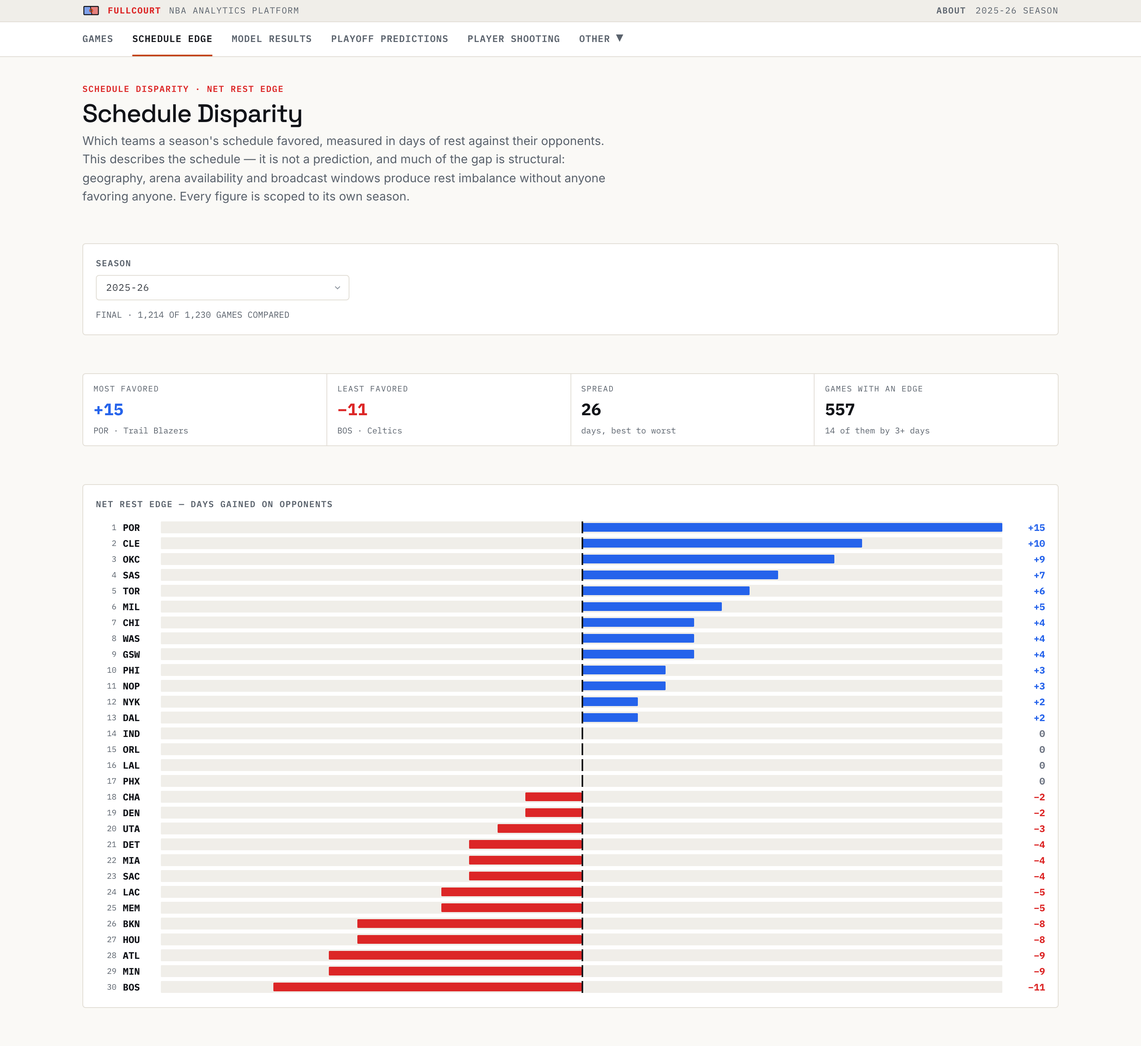
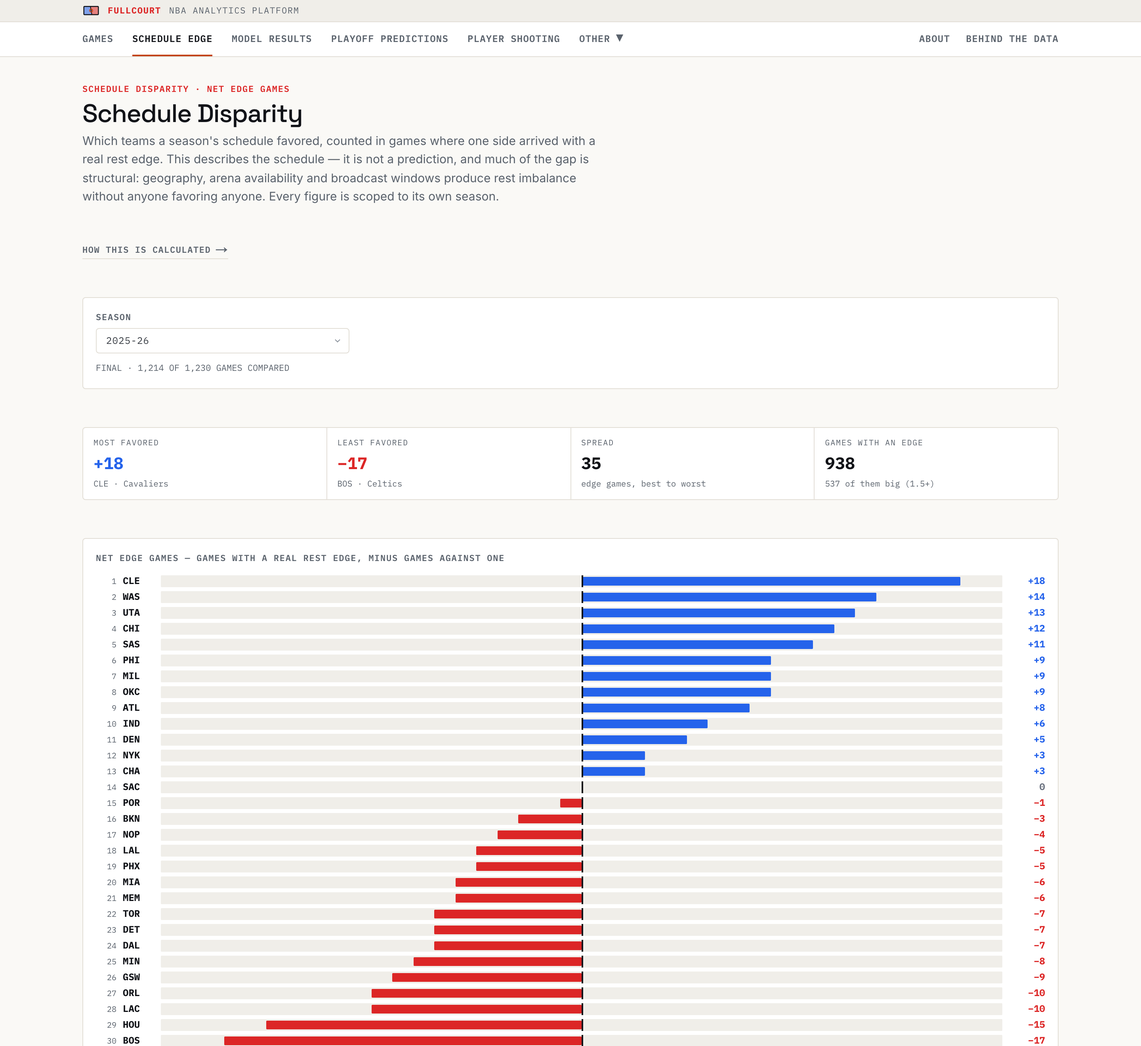
docs: reconcile every tracked document with the shipped code
A full audit of the nineteen tracked markdown files against HEAD. The repository was
asserting things that stopped being true, in several places for months.

The worst of it, roughly in order of how wrong it was:

- AGENTS.md called the app "dark-only" with page background #0A0B0D. It is light-only:
  --term-bg is #FAF9F6 and globals.css sets color-scheme: light. It also listed /upcoming
  as a live route (folded into / in July), the home page as "Today's Games", a nav label
  "PICKS" that no longer exists, migrations "0001-0009" against eleven on disk, and a flat
  1.38 back-to-back multiplier that has been a turnaround-dependent clamp since 2026-07-30.
- ARCHITECTURE.md's data-flow diagram and source table both named BoxScoreSummaryV2 and
  nba_ot_periods.py as the overtime source -- the path that never worked from outside the US
  and left the overtime term dormant across all 49,353 games.
- ROADMAP.md named the five tabs with SHOT VALUE as the fifth; it is PLAYER SHOOTING, and
  Shot Value moved behind OTHER on 2026-07-27. No mention of the fatigue overhaul, the
  Referee Effect module, or the reference section.
- README screenshot alt text quoted 54.7% and 38,985 games, both pre-recompute.
- TESTING_AND_CICD claimed 31 tests across 8 specs; it is 46 across 10, confirmed with
  playwright --list rather than counted by hand.
- FRONTEND, GLOSSARY and SEASON_ROLLOVER carried the old /about entry point, the removed
[…]

diff --git a/src/components/about-content.tsx b/src/components/about-content.tsx
@@ -257,12 +257,15 @@ export function AboutContent({ stats }: { stats: AboutStats }) {
             Rest is a stat
           </h1>
           {/* Mechanism-led, to complete the headline: if the h1 asserts that rest is a stat,
-              the line under it should name what the stat is made of.
+              the line under it should name what the stat is made of. "Days off" rather than
+              "rest": the headline already uses "rest" for the whole idea, so repeating it here
+              for one specific input would have the pair saying rest is a stat, and also one of
+              three ingredients in that stat.
               The start season is derived rather than typed, and it is a start date rather
               than a count on purpose — the evidence section already carries "40 seasons", so
               repeating the count here would spend the same beat twice. */}
           <p className="fc-hero-in mx-auto mt-8 max-w-xl" style={{ color: DIM, fontSize: "1.05rem", lineHeight: 1.65 }}>
-            Travel, rest and schedule density — scored for every team in every game since{" "}
+            Travel, days off and schedule density — scored for every team in every game since{" "}
             {NBA_SEASONS[0]}.
           </p>
         </div>

diff --git a/src/app/behind-the-data/playoff-predictions/page.tsx b/src/app/behind-the-data/playoff-predictions/page.tsx
@@ -40,7 +40,7 @@ const FEATURES = [
   {
     name: "is_best_of_7",
     what: "Series format flag.",
-    why: "First rounds were best-of-5 through the 2002 season; a shorter series is more random.",
+    why: "First rounds were best-of-5 through 2001-02; a shorter series is more random.",
   },
 ] as const;
 

diff --git a/docs/FRONTEND.md b/docs/FRONTEND.md
@@ -194,8 +194,18 @@ work. It explains what the product measures rather than serving data, which is w
 so `img-src` in `next.config.ts` did not have to widen; GSAP is imported inside `useEffect`
 so it stays out of the shared bundle.
 
-Reachable from an `ABOUT` link in the **top status bar** and from `WHAT THIS MEASURES` in the
-footer — not from the main nav, whose five-link count is asserted in `e2e/navigation.spec.ts`.
+Reachable from an `ABOUT` link in the nav row's **`Reference` landmark** and from
+`WHAT THIS MEASURES` in the footer — not from the main nav, whose five-link count is asserted
+in `e2e/navigation.spec.ts`. It sat in the top status bar until 2026-07-30, which proved too
+quiet to be found; the reference links are now the same size and weight as a tab, and the gap
+between the two groups is what says "not one of the five".
+
+Rebuilt 2026-07-30 into **seven full-viewport sections** (`calc(100svh - 72px)` each, the
+subtraction being the sticky chrome — without it every section overran the fold by the header's
+height). Order: the claim, the thesis, the evidence, the five surfaces, what the score is made
+of, the standard, the way in. The hero carries no buttons: they competed with the single line
+the page opens on. Evidence figures come from `getHistoricalBacktest` via the server page and
+are revalidated daily, because all three were hardcoded and all three had gone stale.
 Headings use `font-bold` (700), not extrabold: `layout.tsx` loads Space Grotesk at
 400/500/600/700, so an 800 request resolved to the 700 face anyway.
 
@@ -211,7 +221,7 @@ Two things on this page are easy to get wrong twice:
   draws, and the copy. Index, route and glyph are `aria-hidden`, so the link's accessible name
   stays `"<label> <copy>"` — which is what `e2e/about.spec.ts` anchors on.
 
-Display statements on this page take **no terminal period** (`Rest is a stat`, `Six surfaces`,
+Display statements on this page take **no terminal period** (`Rest is a stat`, `Five surfaces`,
 `How a number earns its place`). Body copy and the scrubbing thesis keep normal punctuation —
 they are prose, not statements.
 
@@ -224,22 +234,60 @@ recovery links to Games and Model Results without adding a client bundle or data
 
 ## Components
 
+### `/behind-the-data/*` — the reference section (7 routes)
+
+`/behind-the-data` plus one route per model (`rest-advantage`, `schedule-edge`,
+`playoff-predictions`, `player-shooting`, `shot-value`) and a shared `data-and-limits`. Real
+routes rather than client-side tabs, so each method is linkable, crawlable, and deep-linkable
+from the page it explains. `BehindTheDataShell` supplies the header and the section sub-nav;
+`behind-the-data-parts.tsx` supplies the shared prose primitives so six pages cannot drift into
+six typographic treatments of the same content.
+
+Constants are **imported from source** (`FATIGUE_CONSTANTS`, `BIG_EDGE_FATIGUE_THRESHOLD`,
+`REST_DAYS_CAP`) rather than retyped, so the prose cannot drift from the code. Measured figures
+that cannot be computed per page view carry the date they were measured.
+
+`MethodLink` (`src/components/method-link.tsx`) renders the `HOW THIS IS CALCULATED` link on
+each product page, resolved through `methodologyHrefFor()` — it returns null for surfaces with
+no documented section, so adding one to `BEHIND_THE_DATA_SECTIONS` is all it takes.
+
+> **Prose spacing has a rendered test.** A JSX text node that wraps to the next line silently
+> loses its leading space, producing "30days" and "backtest.The". It is invisible in review
+> because the source looks correct, so `e2e/behind-the-data.spec.ts` sweeps the rendered `<p>`
+> and `<li>` text of every reference page for run-together words. Formula blocks are excluded —
+> camelCase inside them is code.
+
+### `/referees` — placeholder
+
+Reduced to a "Coming soon" page on 2026-07-30. The whistle numbers came back inside noise, and
+a table of muted cells invites readers to find names in it anyway. `src/data/referee-whistle.json`
+and its test remain, so the page can return without a re-ingest.
+
 ### `nav-bar.tsx` — two-layer header (sticky, `z-50`)
 
 1. **Top status bar** (28px, `var(--term-surface-2)`, bottom border `var(--term-border)`):
    a `<CourtMark size={22}>` brand logo + `FULLCOURT` (`var(--term-red)`) + `NBA ANALYTICS
-   PLATFORM` (muted), and on the right `currentDisplaySeason() + " SEASON"` (dynamic — from
-   `src/lib/nba-season.ts`, not a hardcoded label), preceded by an `ABOUT` link to `/about`.
-   That link lives here, not in the main nav, because `/about` explains the product rather
-   than being a sixth surface — and because the nav's five-link count is asserted in e2e.
+   PLATFORM` (muted), wrapped in a link to `/` — the wordmark was inert until 2026-07-30, the
+   one piece of chrome people reflexively click. Home is `GAMES`, not `/about`: a logo landing
+   on an explainer breaks the "take me back to the product" contract.
+   The right side is now empty. It previously held `currentDisplaySeason() + " SEASON"`, removed
+   2026-07-30 — it was not interactive, and on a site covering forty seasons it implied the whole
+   product was scoped to one — and an `ABOUT` link, which moved to the nav row.
    There is **no LIVE dot** — it was gated by
    a `HAS_LIVE_GAMES` constant hardcoded to `false`, so it never rendered in any state; the
    dead branch was removed. Per-game LIVE status is shown by `MatchupCard` instead.
-2. **Main nav** (44px, `var(--term-surface)`, bottom border `var(--term-border)`): links from
-   `PRIMARY_NAV_ITEMS` (`src/lib/primary-navigation.ts`) — `GAMES → /`, `SCHEDULE EDGE → /schedule`,
-   `MODEL RESULTS → /analysis`, `PLAYOFF PREDICTIONS → /playoffs`, `SHOT VALUE → /shot-quality`,
-   `PLAYER SHOOTING → /shooting`. The surface count on `/about` is derived from that list rather
-   than written out, so adding a tab cannot leave the page claiming a total it no longer has.
+2. **Main nav** (44px, `var(--term-surface)`, bottom border `var(--term-border)`) holds **two
+   navigation landmarks in one row**. Left, `aria-label="Main navigation"`: the five direct tabs
+   from `DIRECT_NAV_ITEMS` (`src/lib/primary-navigation.ts`) — `GAMES → /`,
+   `SCHEDULE EDGE → /schedule`, `MODEL RESULTS → /analysis`,
+   `PLAYOFF PREDICTIONS → /playoffs`, `PLAYER SHOOTING → /shooting` — followed by the `OTHER`
+   menu holding `SHOT VALUE → /shot-quality` and `REFEREE EFFECT → /referees`. Right,
+   `ml-auto` and `aria-label="Reference"`: `ABOUT → /about` and
+   `BEHIND THE DATA → /behind-the-data`. Two landmarks rather than one so the reference links
+   never inflate the asserted five-link count, and so screen readers announce them as what they
+   are. The surface list on `/about` is derived from `DIRECT_NAV_ITEMS`, so adding a tab cannot
+   leave the page claiming a total it no longer has — `SHOT VALUE` is absent from it because it
+   is an `OTHER` item.
    Bare noun phrases, no time words: mainstream NBA navs (ESPN, CBS) name the thing and
    leave time to a date picker, and NN/g's category-name guidance rules out both jargon
    (`EDGES`) and generic labels (`ANALYSIS`, `DATA`). Labels are also checked against *borrowed*

diff --git a/docs/ROADMAP.md b/docs/ROADMAP.md
@@ -16,17 +16,19 @@ URL-reflected view state
 thesis block ([#3](https://github.com/mhju0/fullcourt/issues/3)), and extracting the three
 duplicated presentational components ([#5](https://github.com/mhju0/fullcourt/issues/5)).
 
-On 2026-07-27 the nav was renamed to five plain-noun tabs — `GAMES`, `SCHEDULE EDGE`,
-`MODEL RESULTS`, `PLAYOFF PREDICTIONS`, `SHOT VALUE` — and `/upcoming` was folded into `GAMES`
-as a view toggle rather than kept as a sixth tab. Module names are unchanged; see
+On 2026-07-27 the nav was renamed to five plain-noun tabs and `/upcoming` was folded into
+`GAMES` as a view toggle rather than kept as a sixth tab. The five are now `GAMES`,
+`SCHEDULE EDGE`, `MODEL RESULTS`, `PLAYOFF PREDICTIONS` and `PLAYER SHOOTING`; `SHOT VALUE`
+and `REFEREE EFFECT` live behind the `OTHER` menu. Module names are unchanged; see
 [GLOSSARY.md §Nav labels](GLOSSARY.md) for the label-by-label rationale.
 
 On 2026-07-28 an interface pass followed: **Space Grotesk** replaced Outfit as the display
 face at weight 500, and all five pages took the same layout grammar — 32px page titles, a
 `gap-12` rhythm between chapters, and stat tiles ruled on the top edge rather than the left.
 See [FRONTEND.md §Page rhythm](FRONTEND.md). The same pass added **`/about`**, a dark landing
-page that explains what the product measures; it is not a sixth tab, and is reached from the
-status bar and the footer.
+page that explains what the product measures. It is still not a tab, but as of 2026-07-30 it
+is reached from a right-aligned `Reference` landmark in the nav row rather than the status
+bar, which proved too quiet to be found.
 
 Two directions were considered and **declined**, so they are not backlog:
 - Restyling the five app pages in the dark cinematic aesthetic used by `/about` — it would
@@ -37,7 +39,8 @@ Two directions were considered and **declined**, so they are not backlog:
 The dependency tree is deliberately pinned; see
 [SEASON_ROLLOVER.md §8](SEASON_ROLLOVER.md) before regenerating the lockfile, and §7 for the
 season counts and frozen `/about` figures that do not derive themselves. **`gsap` is the one
-runtime dependency added since the freeze** (2026-07-28, for `/about` only). It is imported
+runtime dependency added since the freeze** (2026-07-28, for `/about` only; still the only
+one as of 2026-07-30). It is imported
 inside an effect so it stays out of the shared bundle, and `@gsap/react` was deliberately not
 added alongside it.
 
@@ -53,8 +56,8 @@ added alongside it.
 - **Shot Quality** — complete collection, aggregation, model evaluation, persisted expected-value
   surface, API, and `/shot-quality` UI. Public data supports location value, not defender- or
   shot-clock-aware quality; see [SHOT_QUALITY_DESIGN.md](SHOT_QUALITY_DESIGN.md).
-- **Schedule Disparity** — which teams a season's schedule favored, ranked by net rest edge in
-  days, at `/schedule`. The most isolated module: **read-only**, no migration, no table, no
+- **Schedule Disparity** — which teams a season's schedule favored, ranked by **net edge
+  games** at `/schedule` (the days-based rest edge was retired 2026-07-30). The most isolated module: **read-only**, no migration, no table, no
   ingest. Every figure is scoped to its own season — there is deliberately no cross-era ranking.
   Verified against the live database on 2026-07-27. See
   [the design spec](superpowers/specs/2026-07-27-schedule-disparity-design.md) and
@@ -72,4 +75,47 @@ added alongside it.
 - Preserve the isolation of each analytics module and the existing rest-advantage naming
   contract.
 
+## 2026-07-29 → 30 — the fatigue overhaul
 
+A second audit of `src/lib/fatigue.ts` found ten defects and all but one were fixed. The three
+that mattered most:
+
+- **The overtime term had never fired.** `games.overtime_periods` read 0 for all 49,353 games,
+  because its only loader used `stats.nba.com`, which is unreachable from outside the US. It is
+  now sourced from ESPN by `scripts/fetch_game_context.ts`.
+- **Time zones were approximated by a 26° longitude test**, which missed 871 of 3,522 genuine
+  two-zone road trips and false-fired on 40. Zones are now resolved from real UTC offsets.
+- **Neutral-site games were geolocated at the listed host's arena.** They are now scored as away
+  games for *both* teams, at the venue they actually travelled to.
+
+Also added: turnaround hours sharpening the back-to-back multiplier, acclimation decay and an
+eastward/westward asymmetry on the circadian term, a blowout discount on prior-game load, a
+continuous freshness curve, and an altitude carryover. Cumulative season load was considered
+and **declined**. Migration `0011` added `tip_off_utc`, `neutral_site` and
+`neutral_venue_city`. See [ADR 0003](adr/0003-fatigue-inputs-limited-to-espn-era.md) for the
+era limits of the ESPN source, and [DATA_PIPELINE.md](DATA_PIPELINE.md) for the revised formula.
+
+**Read the result honestly.** Published tier win rates rose about a point, but on games both
+the old and new model call, accuracy moved 0.15pp and the two pick the same team 98.8% of the
+time. The gain is the new model *declining* 2,661 games the old one called at below a coin
+flip. That is better selectivity, not better prediction.
+
+Single-term ablations, holding the sample fixed: recent workload −1.59pp, back-to-backs
+−0.90pp, travel −0.35pp, road segment −0.15pp, and altitude, overtime and freshness at roughly
+nothing, with schedule density very slightly harmful. The model is essentially recent workload
+plus back-to-backs. The four terms that earn nothing are kept because they are physically real
+and correctly computed, which is a different claim from being useful.
+
+## 2026-07-29 → 30 — surfaces
+
+- **Referee Effect** shipped 2026-07-29 at `/referees`, then was **reduced to a placeholder on
+  2026-07-30**. Its central question — does any referee tilt the whistle home? — came back
+  inside noise, and a table of muted cells invites readers to find names in it anyway. The
+  ingest (`scripts/fetch_officials.ts`) and its dataset test are deliberately left in place so
+  the page can return without a re-ingest.
+- **Behind the Data** added 2026-07-30: a seven-route reference section documenting every
+  model's terms, constants and limits, reached from the nav row's `Reference` landmark and from
+  a `HOW THIS IS CALCULATED` link on each product page.
+- **`/about` rebuilt** 2026-07-30 as seven full-viewport sections. Its evidence figures are now
+  read from the live backtest rather than hardcoded — all three had gone stale, one of them
+  citing a metric that had been retired.

diff --git a/docs/TESTING_AND_CICD.md b/docs/TESTING_AND_CICD.md
@@ -26,7 +26,7 @@ Test files and coverage:
 
 | File | Covers |
 |------|--------|
-| `src/lib/__tests__/fatigue.test.ts` | `calculateFatigue` / `calculateRestAdvantage`: opener baseline, freshness bonus, back-to-back, 3-in-4, density, travel windows + the travel-leg contract, road-trip streak, altitude (`×1.15`), overtime (`+0.5` / `+1.0`), combined compounding. |
+| `src/lib/__tests__/fatigue.test.ts` | `calculateFatigue` / `calculateRestAdvantage`: opener baseline, freshness curve, back-to-back, 3-in-4, density, travel windows + the travel-leg contract, road-trip streak, altitude and its carryover, overtime, combined compounding. Since 2026-07-30 also: real time zones vs the retired 26° longitude proxy (including Phoenix's missing DST), neutral-site venues, turnaround-hour sharpening of the back-to-back multiplier, circadian direction and acclimation decay, and the blowout discount. **Every one of those was proven to fail against the unfixed model before being accepted** — `git stash push src/lib/fatigue.ts`, re-run, pop. |
 | `src/lib/__tests__/haversine.test.ts` | Great-circle distances (LA↔Boston ≈2,591mi, NY↔SF, Dallas↔Denver), symmetry, identical-point = 0. |
 | `src/lib/__tests__/nba-season.test.ts` | `pickDefaultGamesDate` (today/postseason/October-start cases), `formatLocalDateKey` and `formatEasternDateKey` (US/Eastern, viewer-timezone-independent), `currentDisplaySeason`, and `isNbaOffSeason`. |
 | `src/lib/__tests__/rest-advantage-display.test.ts` | `formatRestAdvantageDisplay` team/neutral labeling + one-decimal formatting, and `buildRestAdvantageEvidence`: cumulative-bucket selection (a 4.1 gap resolves to "3 or more", **not** the RA≥5 rate), threshold boundaries, the sub-2 overall fallback, the 0.5 call boundary, zero-denominator refusal, and signed counterfactual wording. Discriminating: sorting the cleared buckets ascending fails exactly the two selection tests. |
@@ -76,10 +76,18 @@ the time, 16.8s serially against 26s *and* readiness-gate failures on `/schedule
 worker count — parallelism bought negative time here. (`fullyParallel` is left on; with one
 worker it only affects ordering.) Existing specs receive a completed onboarding storage state so
 the first-visit dialog cannot block their legacy interactions; `e2e/onboarding.spec.ts` overrides
-that state with an empty browser. Specs (8): `e2e/home.spec.ts`, `e2e/about.spec.ts`,
-`e2e/analysis.spec.ts`, `e2e/navigation.spec.ts`, `e2e/onboarding.spec.ts`,
-`e2e/playoffs.spec.ts`, `e2e/schedule-disparity.spec.ts`, `e2e/shot-quality.spec.ts`,
-`e2e/shooting.spec.ts` — **31 tests** at time of writing.
+that state with an empty browser. Specs (10): `e2e/home.spec.ts`, `e2e/about.spec.ts`,
+`e2e/analysis.spec.ts`, `e2e/behind-the-data.spec.ts`, `e2e/navigation.spec.ts`,
+`e2e/onboarding.spec.ts`, `e2e/playoffs.spec.ts`, `e2e/schedule-disparity.spec.ts`,
+`e2e/shot-quality.spec.ts`, `e2e/shooting.spec.ts` — **46 tests** (2026-07-30).
+
+`e2e/behind-the-data.spec.ts` covers the reference section: that it is reachable from the
+`Reference` landmark and *not* from `Main navigation` or the `OTHER` menu, that every section is
+its own addressable route, and that each product page's `HOW THIS IS CALCULATED` link lands on
+the right one. It also carries a **rendered prose-spacing sweep** over all seven pages — a JSX
+text node that wraps to the next line silently loses its leading space ("30days",
+"backtest.The"), which review cannot catch because the source looks correct. Formula blocks are
+excluded, since camelCase inside them is code.
 
 `e2e/shooting.spec.ts` covers the `/shooting` player database: that the volume floor actually
 reduces the row count, that an expanded player's seasons carry the same cell count as the single
@@ -101,13 +109,14 @@ back on expand.
 > - **`navigation.spec.ts`** — nav links `GAMES` / `MODEL RESULTS` / `SCHEDULE EDGE` →
 >   `/` / `/analysis` / `/schedule`. The active link is asserted via its `aria-current="page"`
 >   attribute (the amber-underline active state), and inactive links are checked to lack it.
->   The link count is pinned at **5**, so a resurrected sixth tab fails here. A second spec
->   pins `/about`'s entry point: it asserts `ABOUT` is **absent** from the `Main navigation`
->   landmark, then clicks the status-bar link and checks the landing heading and
->   `aria-current`. Verified to fail — at the click — with the status-bar link removed.
-> - **`about.spec.ts`** — the landing page renders its hero, both calls to action, and a
->   `Product surfaces` nav of exactly five links carrying the five nav labels, so a future nav
->   rename that misses this page fails here instead of drifting quietly. A second test re-pins
+>   The link count is pinned at **5**, so a resurrected sixth tab fails here. `ABOUT` and
+>   `BEHIND THE DATA` sit in a separate `Reference` landmark in the same row, which is exactly
+>   why that count still holds: two landmarks, one bar. A second spec pins `/about`'s entry
+>   point by asserting it is **absent** from `Main navigation` before following it.
+> - **`about.spec.ts`** — the landing page renders its hero, its single call to action, and a
+>   `Product surfaces` nav of exactly five links carrying the five direct nav labels, so a
+>   future nav rename that misses this page fails here instead of drifting quietly. It also
+>   asserts the hero's old pair of buttons is **gone** (`See the backtest` at count 0). A second test re-pins
 >   the five-tab count from `/` and follows the footer's `WHAT THIS MEASURES` link. The hero
 >   assertion allows 30s: the page is `ssr: false`, so a cold Turbopack compile is on the path.
 > - **`home.spec.ts`** — the heading is the `<h1>` **"Games"** (`REST ADVANTAGE

diff --git a/docs/ARCHITECTURE.md b/docs/ARCHITECTURE.md
@@ -13,9 +13,11 @@ the discrepancy is called out.
 │ (scheduleLeagueV2.json)   │      │  → future/current slate      │   │ PostgreSQL       │
 │ NBA CDN live scoreboard   │      │ fetch_schedule.py            │──▶│  teams           │
 │ (todaysScoreboard_00.json)│      │  → historical seasons        │   │  games           │
-│ nba_api / stats.nba.com   │─────▶│ nba_ot_periods.py            │   │  fatigue_scores  │
-│  (LeagueGameFinder,       │      │  → overtime periods          │   │  predictions     │
-│   BoxScoreSummaryV2)      │      │ seed_teams.py → 30 teams     │   └──────────────────┘
+│ nba_api / stats.nba.com   │─────▶│ seed_teams.py → 30 teams     │   │  fatigue_scores  │
+│  (LeagueGameFinder)       │      │                              │   │  predictions     │
+│ ESPN site.api scoreboard  │─────▶│ fetch_game_context.ts        │   └──────────────────┘
+│  (overtime, tip-off,      │      │  → overtime / tip / neutral  │
+│   neutral site)           │      │                              │
 └──────────────────────────┘      └──────────────┬───────────────┘             │
                                                   │ orchestrated by             │
                                                   │ daily_update.py             │
@@ -56,7 +58,8 @@ the discrepancy is called out.
 | NBA CDN schedule | `https://cdn.nba.com/static/json/staticData/scheduleLeagueV2.json` | Current-season + future games (`fetch_nba_schedule_cdn.py`). No auth. |
 | NBA CDN live scoreboard | `https://cdn.nba.com/static/json/liveData/scoreboard/todaysScoreboard_00.json` | Live score/status refresh (`/api/cron/update`). |
 | nba_api (stats.nba.com) | `LeagueGameFinder` | Historical + windowed schedules and final scores (`fetch_schedule.py`, `daily_update.py`, `backfill_historical.py`). |
-| nba_api (stats.nba.com) | `BoxScoreSummaryV2` | Overtime-period detection (`nba_ot_periods.py`). |
+| ESPN site.api | `/scoreboard?dates=` | Overtime periods, tip-off times, neutral-site venues (`fetch_game_context.ts`), 2002-03 on. One call per game date returns all three. |
+| ~~nba_api (stats.nba.com)~~ | ~~`BoxScoreSummaryV2`~~ | **Retired 2026-07-30** as the overtime source. `stats.nba.com` is unreachable from outside the US, so `nba_ot_periods.py` silently returned 0 for every game and the fatigue model's overtime term never fired. Still imported by `fetch_schedule.py`; no longer used by `daily_update.py`. |
 | ESPN logos | `https://a.espncdn.com/i/teamlogos/nba/500/{slug}.png` | Every team logo, current and historical (`src/lib/team-history.ts`). Dark-on-light for all 30; the NBA CDN ships no light-background mark for BKN or SAS, and 403s from Seoul and CI. |
 | ESPN CDN logos | `https://a.espncdn.com/i/teamlogos/nba/500/{abbr}.png` | Historical/relocated-era logos. |
 
@@ -133,8 +136,16 @@ Full list in [API.md](API.md).
   than an API route: its export changes once a season, so a Postgres round trip could only ever
   return the same numbers.
 - `app/about/page.tsx` — **the landing / explainer page**, outside the product surfaces.
-  Serves no data and touches no query; visuals are CSS and inline SVG only, so `img-src` did
-  not have to widen. GSAP is imported *inside* an effect, keeping it out of the shared bundle.
+  Visuals are CSS and inline SVG only, so `img-src` did not have to widen, and GSAP is imported
+  *inside* an effect, keeping it out of the shared bundle. It is a **server component as of
+  2026-07-30**: it reads `getHistoricalBacktest` and passes the evidence figures down, because
+  the three it used to hardcode had all gone stale. Revalidated daily.
+- `app/behind-the-data/**` — **the reference section**, seven static routes documenting each
+  model's terms, constants and limits. No data fetching: constants are imported from source
+  (`FATIGUE_CONSTANTS` and friends) so the prose cannot drift from the code, and measured
+  figures carry the date they were measured.
+- `app/referees/page.tsx` — **a placeholder** since 2026-07-30. The whistle findings were inside
+  noise; the ingest and dataset test remain so it can return without a re-ingest.
 - Client data fetching uses SWR through `src/lib/fetcher.ts`; live updates use Supabase
   Realtime via `src/hooks/useLiveGames.ts`.
 

diff --git a/README.md b/README.md
@@ -33,7 +33,7 @@ FullCourt quantifies how **travel, rest, and schedule density** shape NBA outcom
 differential, and a confidence read. Every rest-advantage number carries the historical hit
 rate and sample size of its class; matchups the model calls neutral get no claim at all.
 
-<img src="docs/screenshots/games.png" alt="The Games page for Sunday, April 12, 2026, with a BY DATE / UPCOMING toggle set to BY DATE. Three tiles read 15 games on this date, an average rest advantage of 0.7, and 0 high-confidence games. A Scope panel below holds the 2025-26 season with month buttons from October to April, April selected, and day chips 1 through 12 each captioned with its game count, the 12th selected. A banner reads that the 2025-26 season is complete and the final slate is showing, linking to the 40-season backtest. Two matchup cards follow. The first, Brooklyn Nets 101 at Toronto Raptors 136, shows fatigue bars of 3.5 and 4.4, a rest-advantage panel giving BKN plus 1.0 with a LOW CONF badge, and a sentence reading that any measurable gap has gone the rested team's way 54.7% of the time from 38,985 games. The second, Chicago Bulls 128 at Dallas Mavericks 149, shows equal fatigue scores of 4.6, is scored EVEN 0.0 with a NEUTRAL badge, and carries no such sentence." width="900" />
+<img src="docs/screenshots/games.png" alt="The Games page for Sunday, April 12, 2026, with a BY DATE / UPCOMING toggle set to BY DATE. Three tiles read 15 games on this date, an average rest advantage of 0.8, and 0 high-confidence games. A Scope panel below holds the 2025-26 season with month buttons from October to April, April selected, and day chips 1 through 12 each captioned with its game count, the 12th selected. A banner reads that the 2025-26 season is complete and the final slate is showing, linking to the 40-season backtest. Two matchup cards follow. The first, Brooklyn Nets 101 at Toronto Raptors 136, shows fatigue bars of 3.3 and 4.4, a rest-advantage panel giving BKN plus 1.1 with a MED CONF badge, and a sentence reading that any measurable gap has gone the rested team's way 55.6% of the time from 37,934 games. The second, Chicago Bulls 128 at Dallas Mavericks 149, shows fatigue scores of 4.4 and 4.6, is scored EVEN 0.2 with a NEUTRAL badge, and carries no such sentence." width="900" />
 
 **Schedule Disparity — who the schedule favored.** All 30 teams ranked by net rest edge in days,
 drawn from a zero line so the bar length *is* the edge. Positive is favorable in every column on
@@ -46,7 +46,7 @@ threshold, plotted as the gap against a coin flip in percentage points: zero is 
 rate, so the bar's length is the measured edge. Slices the model gets backwards hang below
 the line in red.
 
-<img src="docs/screenshots/analysis.png" alt="Rest Advantage Analysis. Three summary tiles read an overall win rate of 54.7% across 38,985 games, a home-rested win rate of 60.9% from 16,010 of 26,289 games, and 61.1% at a rest advantage of 5 or more across 5,763 games. Below them, win rate by rest-advantage threshold is drawn as deviation columns measured from a 50% coin flip: four blue bars rise from a zero line, growing left to right from RA at least 2 to RA at least 7, each labelled with its sample size — 22,740, 15,076, 5,763 and 1,903 games. A legend states that blue means the rested team beat a coin flip and red means it lost to one." width="900" />
+<img src="docs/screenshots/analysis.png" alt="Rest Advantage Analysis. A HOW THIS IS CALCULATED link sits under the heading. Three summary tiles read an overall win rate of 55.6% across 37,934 games, a home-rested win rate of 61.3% from 16,277 of 26,559 games, and 63.1% at a rest advantage of 5 or more across 3,854 games. Below them, win rate by rest-advantage threshold is drawn as deviation columns measured from a 50% coin flip: four blue bars rise from a zero line, growing left to right from RA at least 2 to RA at least 7, each labelled with its sample size — 19,740, 12,097, 3,854 and 938 games. A legend states that blue means the rested team beat a coin flip and red means it lost to one." width="900" />
 
 **Series Predictions — the playoff model, scored honestly.** Out-of-sample accuracy sits beside
 in-sample so the overfitting gap is visible rather than hidden, and every series shows the

diff --git a/docs/SEASON_ROLLOVER.md b/docs/SEASON_ROLLOVER.md
@@ -136,7 +136,7 @@ pipeline will flag them — they simply become wrong the moment the ET clock rol
 | Where | What | Note |
 |-------|------|------|
 | `README.md:18`, `:32`, `:147` | "roughly 40 seasons" / "40-season backtest" / "every one of the 40 seasons" | `NBA_SEASONS` = 1985..current minus 2019-20. 40 today; 41 from 2026-10-01. |
-| `src/components/about-content.tsx:262`, `:271`, `:276` | "38,985 games", "+13.4", "26" | Frozen marketing copy on `/about`. The season count beside them **does** derive (`NBA_SEASONS.length`), which makes the hardcoded figures look derived too — they are not. The game total grows every season; `+13.4` is the RA≥7 deviation and moves as the backtest grows; `26` is last season's rest spread and changes annually. Left static on purpose: `/about` fetches nothing, and giving it a data dependency to keep three decorative numbers fresh is a bad trade. Re-read them off `/analysis` and `/schedule` at rollover. |
+| ~~`src/components/about-content.tsx`~~ | ~~"38,985 games", "+13.4", "26"~~ | **No longer a rollover chore (2026-07-30).** All three were stale — the game count, the RA≥7 deviation, and a rest-spread figure whose metric had been retired outright. `/about` is now a server component reading `getHistoricalBacktest`, revalidated daily, so these figures track the pipeline rather than the last edit. Nothing to re-read at rollover. |
 | `docs/social-preview.png` | Baked "40-SEASON BACKTEST" wordmark | Re-export, then **re-upload** via GitHub → Settings → Social preview. It is referenced by no code, so nothing else will remind you. |
 | `docs/screenshots/*.png` + their README alt text | Any figure quoted in an `alt=` attribute | Alt text describes the frozen image, so it is correct until the image is retaken. Retaking a screenshot obliges rewriting its alt text in the same commit — a screen-reader user gets the alt text *instead of* the picture. |
 

diff --git a/docs/GLOSSARY.md b/docs/GLOSSARY.md
@@ -61,6 +61,9 @@ grows — it does not rank those surfaces below the direct tabs.
 | PLAYOFF PREDICTIONS | `/playoffs` | Series Predictions | Playoff Odds — mainstream that means *making* the playoffs, not winning a series |
 | PLAYER SHOOTING | `/shooting` | Shooting by Rest | Shooting — on Basketball-Reference and NBA.com that means shot *location*, which is SHOT VALUE; Player Rest / Rest Splits — the rest tab is SCHEDULE EDGE, and an internal collision misroutes worse than an external one; Splits — ESPN's word for exactly this page, but jargon for a casual fan and silent about the measure |
 | SHOT VALUE *(OTHER)* | `/shot-quality` | Expected Shot Value | Shot Charts — mainstream that means a player's makes/misses by spot |
+| REFEREE EFFECT *(OTHER)* | `/referees` | Coming soon | Referee Bias — the page was named for the question, not a conclusion; it is a placeholder since 2026-07-30 because the home-whistle finding sat inside noise |
+| ABOUT *(Reference)* | `/about` | Rest is a stat | — not a tab: it explains the product rather than being a surface of it |
+| BEHIND THE DATA *(Reference)* | `/behind-the-data` | Behind the data | Methodology — that word promises a paper; this is read by people deciding whether to trust a number they just saw |
 
 Module names are unaffected: the code, tables, scripts and design records still say Playoff
 Predictor, Shot Quality and Schedule Disparity.

diff --git a/docs/PLAYOFF_PREDICTOR_DESIGN.md b/docs/PLAYOFF_PREDICTOR_DESIGN.md
@@ -1,4 +1,15 @@
 # Playoff Predictor — Design
+> **Reader-facing version:** [`/behind-the-data/playoff-predictions`](../src/app/behind-the-data/playoff-predictions/page.tsx)
+> states the same model in plain terms — the five stored features, why the target is the
+> home-court team, and why out-of-sample accuracy is published beside in-sample.
+>
+> This file is the **build record** for the phase, kept as written. Where it discusses options
+> it did not take (`has_home_court` as a stored column, for one — it is folded into the label
+> and intercept, and `playoff_series` has no such field), that is design history rather than a
+> description of what shipped. Verified against `src/lib/db/schema.ts` on 2026-07-30: the
+> stored features are `seed_diff`, `win_pct_diff`, `entry_rest_diff`, `h2h_diff` and
+> `is_best_of_7`.
+
 
 > **Status (updated 2026-07-02): complete, end to end.** Every phase in this design has shipped:
 > per-game ingest (`scripts/fetch_playoffs.py` for `004` playoff/finals, `scripts/fetch_play_in.py`

diff --git a/docs/SHOT_QUALITY_DESIGN.md b/docs/SHOT_QUALITY_DESIGN.md
@@ -1,4 +1,14 @@
 # Shot Quality Model — Design & Build Record
+> **Reader-facing version:** [`/behind-the-data/shot-value`](../src/app/behind-the-data/shot-value/page.tsx)
+> states the same model in plain terms — the two surfaces, the zone baseline it is measured
+> against, and the defender data public sources do not carry.
+>
+> Verified against the live database on 2026-07-30: `shot_grid` spans `cell_x` −25→24 and
+> `cell_y` −5→41, i.e. **one-foot cells over a half court**, across **30 seasons**
+> (1996-97 … 2025-26); `shot_value_surface` holds 55,036 rows for each of `gbm-v1` and
+> `baseline-zone-v1`. The `/shot-quality` page still exists and is unchanged, but as of
+> 2026-07-27 it is reached through the nav's **OTHER** menu rather than a direct tab.
+
 
 > **Local working artifacts.** Citations to files under `ml/` (probe dumps,
 > `*_metrics.txt`, `sq5_*.txt`) and `docs/audit/` refer to unpublished analysis
